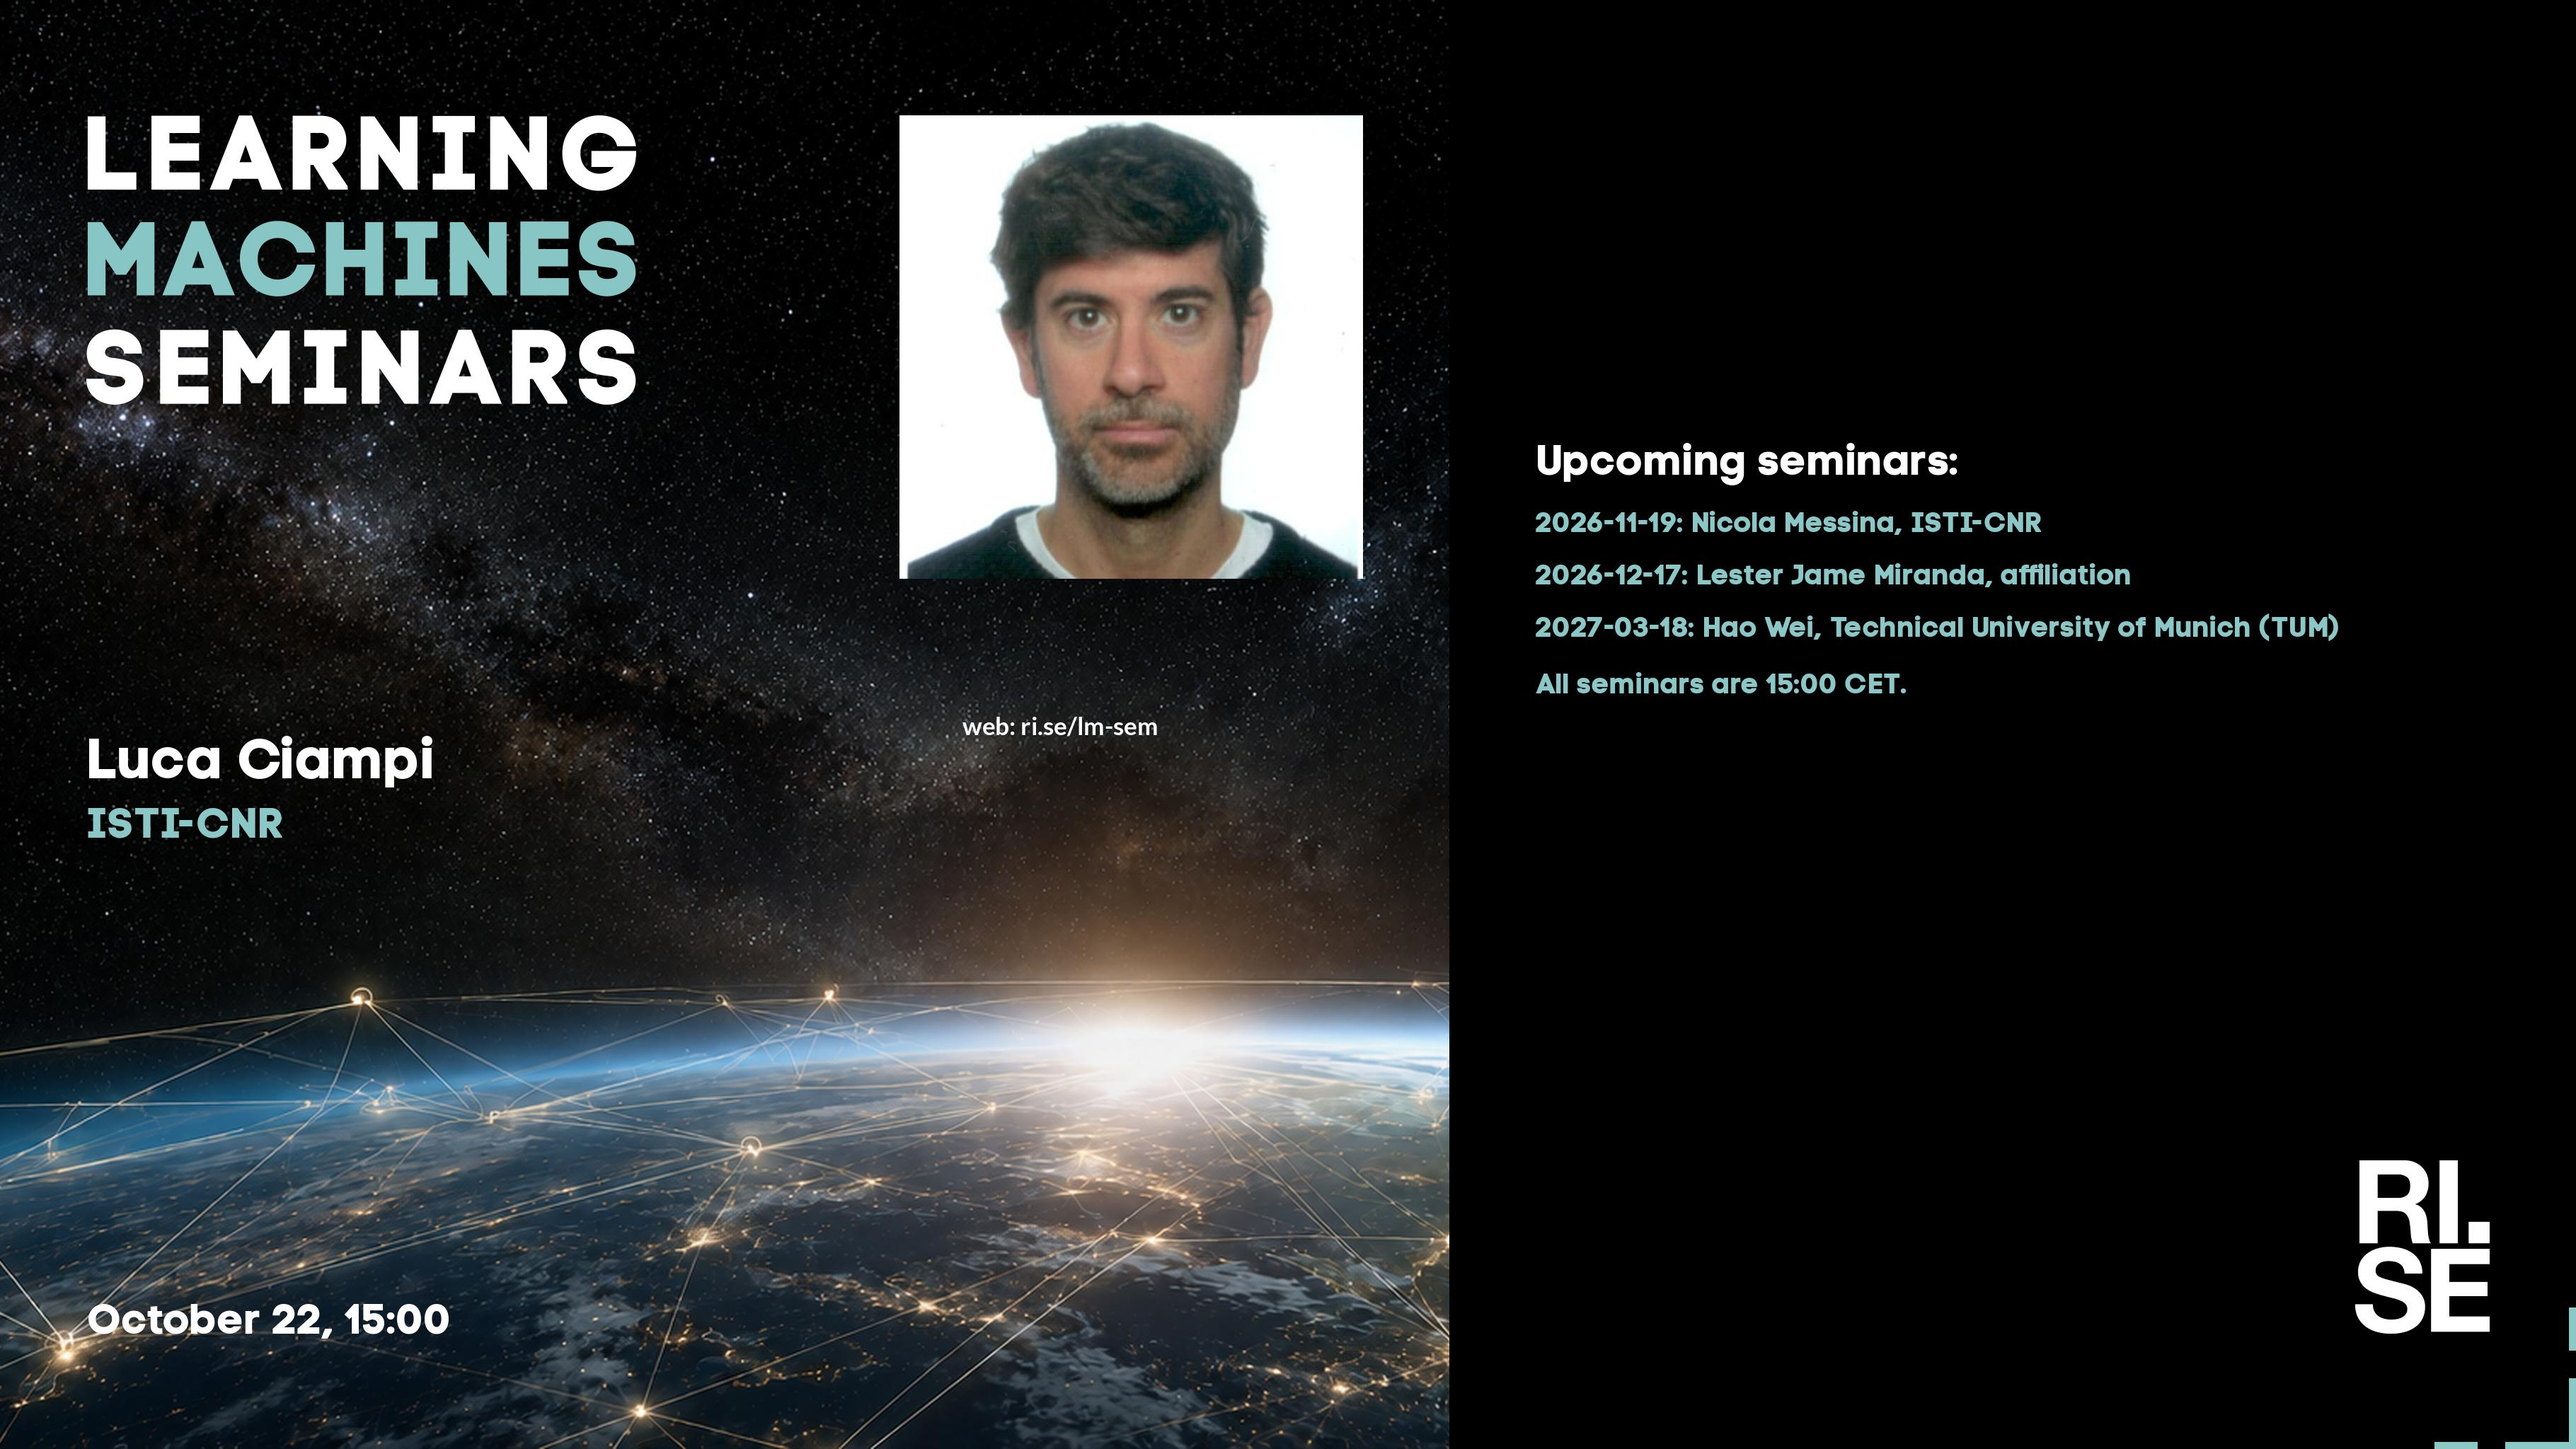
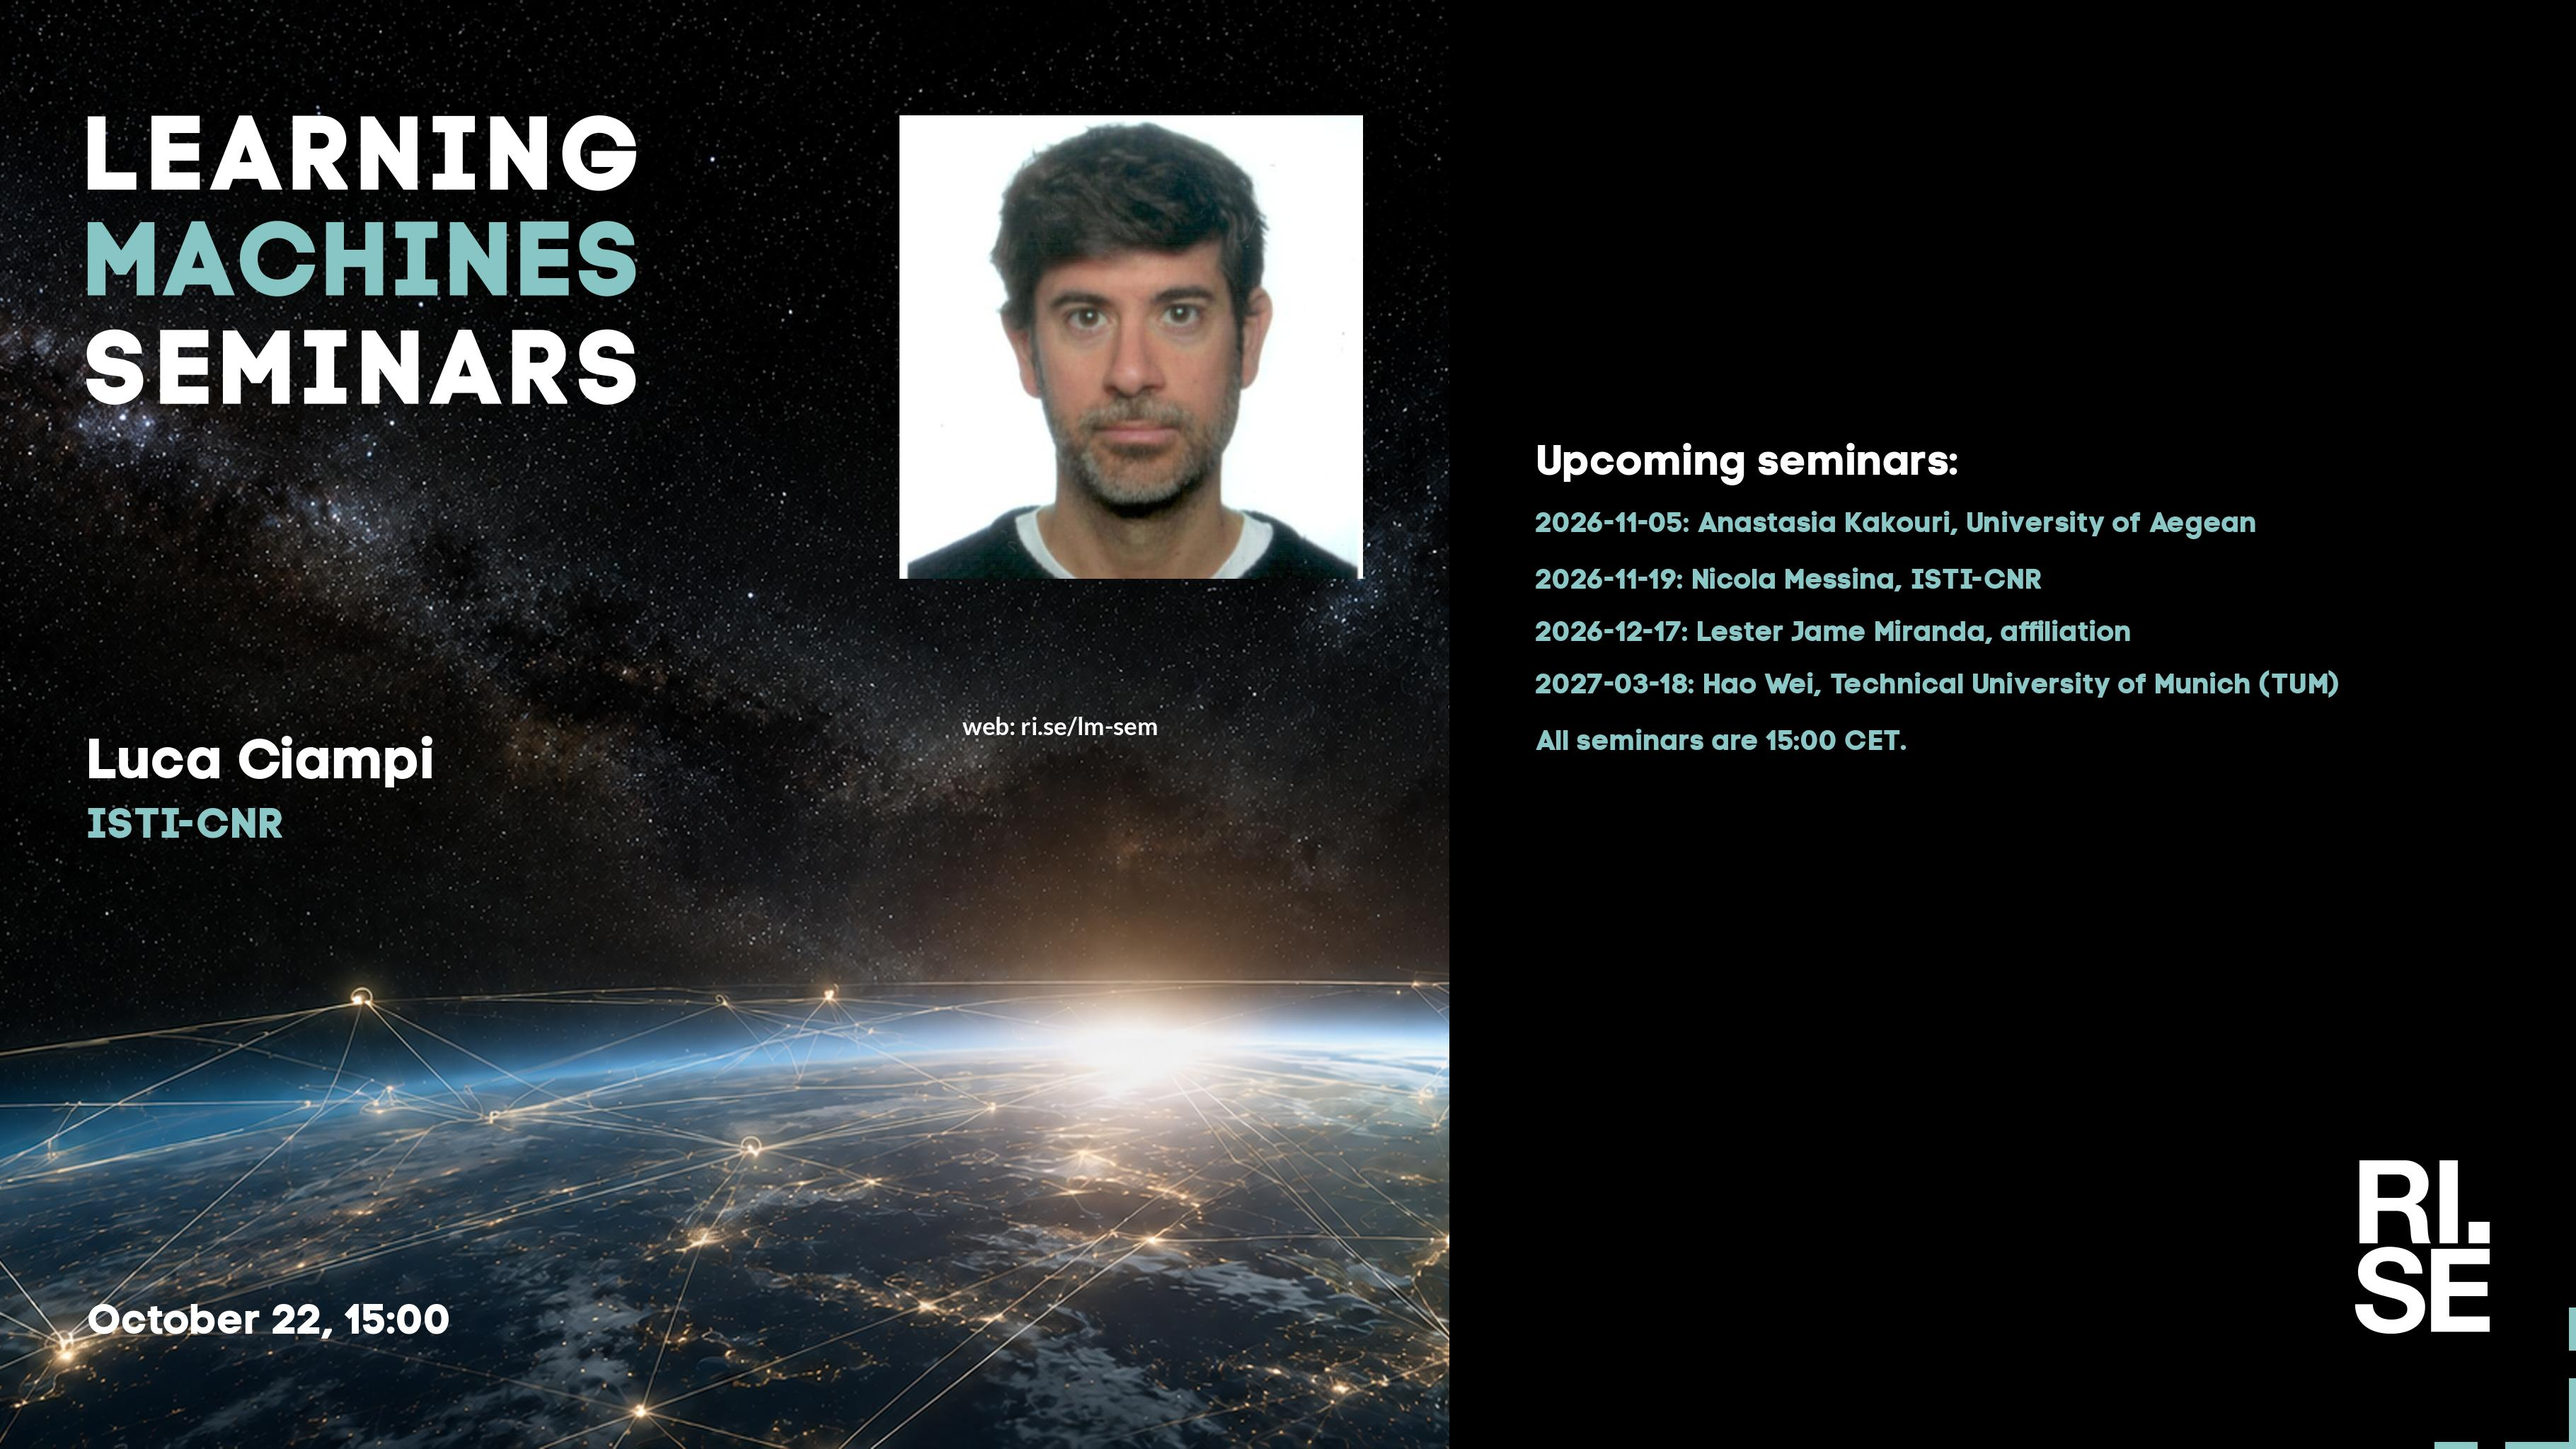
Updated plan on web site.

Changed region(s): [[0.5898, 0.3438, 0.9003, 0.5312]]

diff --git a/lm/2026.md b/lm/2026.md
@@ -40,7 +40,7 @@ table {border-collapse: collapse;}
 | <span style="color:red"> 2026-10-15 </span> | <span style="color:red"> BI-WEEKLY PAUSE </span> | <span style="color:red">  </span> | <span style="color:red">  ---  ---  </span> | <span style="color:red">  </span> | <span style="color:red">  </span> | <span style="color:red"> CANCELLED </span> |
 |  2026-10-22  |  [Luca Ciampi, ISTI-CNR](2026-10-22.md)  |  [photo](2026-10-22-photo-luca-ciampi.jpg)  |  [social media bg ](2026-10-22-social-media-bg-luca-ciampi.jpg) --- [social media photo ](2026-10-22-social-media-photo-luca-ciampi.jpg) --- [social media 169 ](2026-10-22-social-media-169-luca-ciampi.jpg)  |  [meeting backdrop ](2026-10-22-meeting-backdrop-luca-ciampi.jpg)  |  [youtube thumbnail ](2026-10-22-youtube-thumbnail-luca-ciampi.jpg)  |  S~~TAB~~P  |
 | <span style="color:red"> 2026-10-29 </span> | <span style="color:red"> BI-WEEKLY PAUSE and Autumn break </span> | <span style="color:red">  </span> | <span style="color:red">  ---  ---  </span> | <span style="color:red">  </span> | <span style="color:red">  </span> | <span style="color:red"> CANCELLED </span> |
-| <span style="color:grey"> 2026-11-05 </span> | <span style="color:grey"> Anastasia K. ? </span> | <span style="color:grey">  </span> | <span style="color:grey">  ---  ---  </span> | <span style="color:grey">  </span> | <span style="color:grey">  </span> | <span style="color:grey"> S~~TABP~~ </span> |
+|  2026-11-05  |  [Anastasia Kakouri, University of Aegean](2026-11-05.md)  |    |  [social media bg ](2026-11-05-social-media-bg-anastasia-kakouri.jpg) --- [social media photo ](2026-11-05-social-media-photo-anastasia-kakouri.jpg) --- [social media 169 ](2026-11-05-social-media-169-anastasia-kakouri.jpg)  |  [meeting backdrop ](2026-11-05-meeting-backdrop-anastasia-kakouri.jpg)  |  [youtube thumbnail ](2026-11-05-youtube-thumbnail-anastasia-kakouri.jpg)  |  S~~TABP~~  |
 | <span style="color:red"> 2026-11-12 </span> | <span style="color:red"> BI-WEEKLY PAUSE </span> | <span style="color:red">  </span> | <span style="color:red">  ---  ---  </span> | <span style="color:red">  </span> | <span style="color:red">  </span> | <span style="color:red"> CANCELLED </span> |
 |  2026-11-19  |  [Nicola Messina, ISTI-CNR](2026-11-19.md)  |    |  [social media bg ](2026-11-19-social-media-bg-nicola-messina.jpg) --- [social media photo ](2026-11-19-social-media-photo-nicola-messina.jpg) --- [social media 169 ](2026-11-19-social-media-169-nicola-messina.jpg)  |  [meeting backdrop ](2026-11-19-meeting-backdrop-nicola-messina.jpg)  |  [youtube thumbnail ](2026-11-19-youtube-thumbnail-nicola-messina.jpg)  |  S~~TABP~~  |
 | <span style="color:red"> 2026-11-26 </span> | <span style="color:red"> BI-WEEKLY PAUSE </span> | <span style="color:red">  </span> | <span style="color:red">  ---  ---  </span> | <span style="color:red">  </span> | <span style="color:red">  </span> | <span style="color:red"> CANCELLED </span> |

diff --git a/lm/index.md b/lm/index.md
@@ -40,7 +40,7 @@ table {border-collapse: collapse;}
 | <span style="color:red"> 2026-10-15 </span> | <span style="color:red"> BI-WEEKLY PAUSE </span> | <span style="color:red">  </span> | <span style="color:red">  ---  ---  </span> | <span style="color:red">  </span> | <span style="color:red">  </span> | <span style="color:red"> CANCELLED </span> |
 |  2026-10-22  |  [Luca Ciampi, ISTI-CNR](2026-10-22.md)  |  [photo](2026-10-22-photo-luca-ciampi.jpg)  |  [social media bg ](2026-10-22-social-media-bg-luca-ciampi.jpg) --- [social media photo ](2026-10-22-social-media-photo-luca-ciampi.jpg) --- [social media 169 ](2026-10-22-social-media-169-luca-ciampi.jpg)  |  [meeting backdrop ](2026-10-22-meeting-backdrop-luca-ciampi.jpg)  |  [youtube thumbnail ](2026-10-22-youtube-thumbnail-luca-ciampi.jpg)  |  S~~TAB~~P  |
 | <span style="color:red"> 2026-10-29 </span> | <span style="color:red"> BI-WEEKLY PAUSE and Autumn break </span> | <span style="color:red">  </span> | <span style="color:red">  ---  ---  </span> | <span style="color:red">  </span> | <span style="color:red">  </span> | <span style="color:red"> CANCELLED </span> |
-| <span style="color:grey"> 2026-11-05 </span> | <span style="color:grey"> Anastasia K. ? </span> | <span style="color:grey">  </span> | <span style="color:grey">  ---  ---  </span> | <span style="color:grey">  </span> | <span style="color:grey">  </span> | <span style="color:grey"> S~~TABP~~ </span> |
+|  2026-11-05  |  [Anastasia Kakouri, University of Aegean](2026-11-05.md)  |    |  [social media bg ](2026-11-05-social-media-bg-anastasia-kakouri.jpg) --- [social media photo ](2026-11-05-social-media-photo-anastasia-kakouri.jpg) --- [social media 169 ](2026-11-05-social-media-169-anastasia-kakouri.jpg)  |  [meeting backdrop ](2026-11-05-meeting-backdrop-anastasia-kakouri.jpg)  |  [youtube thumbnail ](2026-11-05-youtube-thumbnail-anastasia-kakouri.jpg)  |  S~~TABP~~  |
 | <span style="color:red"> 2026-11-12 </span> | <span style="color:red"> BI-WEEKLY PAUSE </span> | <span style="color:red">  </span> | <span style="color:red">  ---  ---  </span> | <span style="color:red">  </span> | <span style="color:red">  </span> | <span style="color:red"> CANCELLED </span> |
 |  2026-11-19  |  [Nicola Messina, ISTI-CNR](2026-11-19.md)  |    |  [social media bg ](2026-11-19-social-media-bg-nicola-messina.jpg) --- [social media photo ](2026-11-19-social-media-photo-nicola-messina.jpg) --- [social media 169 ](2026-11-19-social-media-169-nicola-messina.jpg)  |  [meeting backdrop ](2026-11-19-meeting-backdrop-nicola-messina.jpg)  |  [youtube thumbnail ](2026-11-19-youtube-thumbnail-nicola-messina.jpg)  |  S~~TABP~~  |
 | <span style="color:red"> 2026-11-26 </span> | <span style="color:red"> BI-WEEKLY PAUSE </span> | <span style="color:red">  </span> | <span style="color:red">  ---  ---  </span> | <span style="color:red">  </span> | <span style="color:red">  </span> | <span style="color:red"> CANCELLED </span> |

diff --git a/lm/statistics-2026.md b/lm/statistics-2026.md
@@ -10,11 +10,11 @@ title: Learning Machines Statistics 2026
 
 
 
-## 16 speakers
+## 17 speakers
 
-Ana Lucic, Ariel Flint Ashery, Gustau Camps-Valls, Isabelle Tingzon, Jaime Caballer Revenga, Jeppe Rasmussen, Kelsey Doerksen, Lester Jame Miranda, Luca Ciampi, Markus Reichstein, Nicola Messina, Nita Mulliqi, Pablo Villanueva Perez, Rangel Daroya, Sanja Karilanova, Solmaz Khazaei
+Ana Lucic, Anastasia Kakouri, Ariel Flint Ashery, Gustau Camps-Valls, Isabelle Tingzon, Jaime Caballer Revenga, Jeppe Rasmussen, Kelsey Doerksen, Lester Jame Miranda, Luca Ciampi, Markus Reichstein, Nicola Messina, Nita Mulliqi, Pablo Villanueva Perez, Rangel Daroya, Sanja Karilanova, Solmaz Khazaei
 
-## 13 affiliations
+## 14 affiliations
 
-City St George’s, University of London, ISTI-CNR, KTH Royal Institute of Technology, Karolinska Institute, Lund University, Max-Planck-Institute for Biogeochemistry and ELLIS Unit Jena, RISE Research Institutes of Sweden, University of Amsterdam, University of Cape Town and Arizona State University, University of Copenhagen, University of Massachusetts Amherst, University of Valencia, Uppsala University
+City St George’s, University of London, ISTI-CNR, KTH Royal Institute of Technology, Karolinska Institute, Lund University, Max-Planck-Institute for Biogeochemistry and ELLIS Unit Jena, RISE Research Institutes of Sweden, University of Aegean, University of Amsterdam, University of Cape Town and Arizona State University, University of Copenhagen, University of Massachusetts Amherst, University of Valencia, Uppsala University
 

diff --git a/lm/2026-11-05.md b/lm/2026-11-05.md
@@ -2,13 +2,15 @@
 layout: default
 metatags: "<meta name=\"robots\" content=\"noindex,nofollow\" />"
 ---
-<img src="/lm/2026-10-22-social-media-169-luca-ciampi.jpg" />
+<img src="/lm/2026-11-05-social-media-169-anastasia-kakouri.jpg" />
  
 Welcome to this week's Learning Machines seminar.
 
+This seminar is a collaboration between RISE and Climate AI Nordics -- [climateainordics.com](https://climateainordics.com/).
+
 **Title:** N/A
 
-**Speaker:** Luca Ciampi, ISTI-CNR
+**Speaker:** Anastasia Kakouri, University of Aegean
 
 **Abstract:** N/A
 
@@ -16,13 +18,12 @@ Welcome to this week's Learning Machines seminar.
 
 **Location:** This is an online seminar. Connect using Zoom.
 
-**Date:** 2026-10-22 15:00
+**Date:** 2026-11-05 15:00
 
 
 
 **Upcoming seminars:**
 
-* 2026-11-05: Anastasia Kakouri, University of Aegean
 * 2026-11-19: Nicola Messina, ISTI-CNR
 * 2026-12-17: Lester Jame Miranda, affiliation
 * 2027-03-18: Hao Wei, Technical University of Munich (TUM)
@@ -32,5 +33,5 @@ More information and coming seminars: [https://ri.se/lm-sem](https://ri.se/lm-se
 
 -- The Learning Machines Team
 
-**Zoom link:** [https://rise.zoom.us/j/67564688191?pwd=Ab0lxAR7KcpHbjL9aRkcNxillhjG0E.1](https://rise.zoom.us/j/67564688191?pwd=Ab0lxAR7KcpHbjL9aRkcNxillhjG0E.1)
+**Zoom link:** [N/A](N/A)
 
